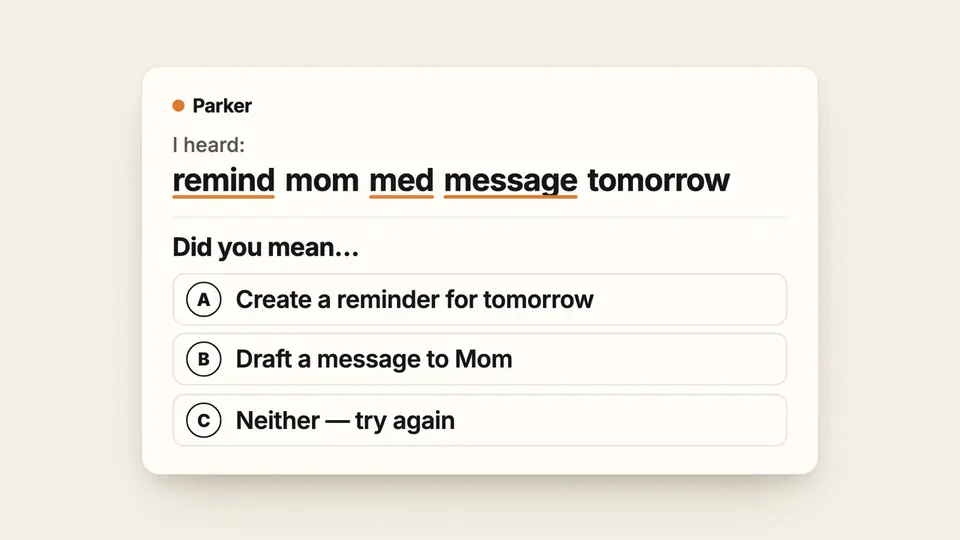
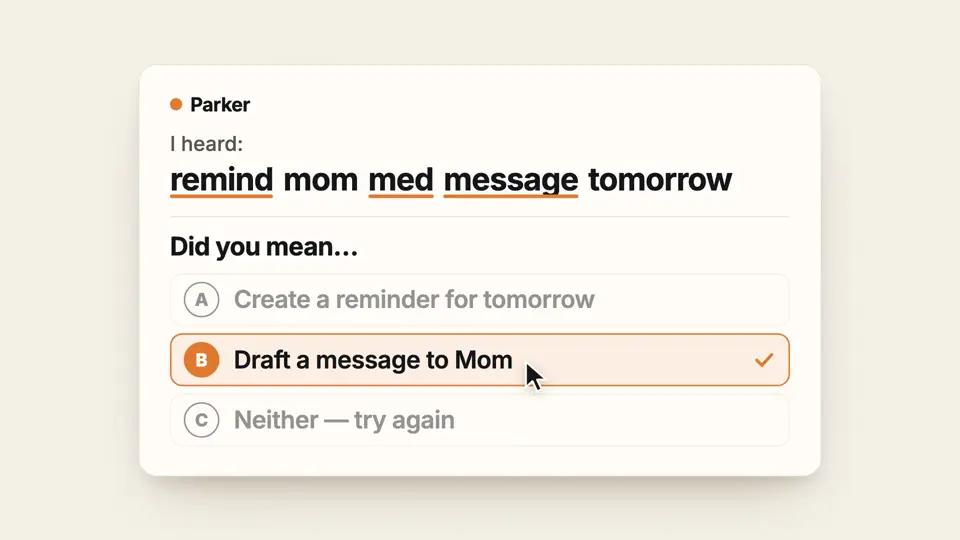
v3 gauntlet pass 1: teaser collapsed behind a disclosure, mobile notes grid fix, pinned receipts, attributed quote

diff --git a/index.html b/index.html
@@ -240,8 +240,15 @@
   .p-desc { margin-top: 0.7rem; color: var(--muted); max-width: var(--measure); text-wrap: pretty; }
   .p-desc .num { color: var(--fg); font-family: var(--mono); font-size: 0.94em; font-feature-settings: "tnum" 1; }
 
-  /* ---- parker teaser ---- */
-  .p-media { margin-top: 1.1rem; max-width: var(--measure); }
+  /* ---- parker teaser (collapsed by default: the card stays a spec, the video is opt-in) ---- */
+  .p-teaser { margin-top: 0.9rem; max-width: var(--measure); }
+  .p-teaser > summary { display: inline-flex; align-items: baseline; gap: 0.45rem; cursor: pointer; color: var(--muted); list-style: none; }
+  .p-teaser > summary::-webkit-details-marker { display: none; }
+  .p-teaser > summary::before { content: "\25B8"; font-size: 0.8em; transition: transform .18s; }
+  .p-teaser[open] > summary::before { transform: rotate(90deg); }
+  .p-teaser > summary:hover { color: var(--fg); }
+  .p-teaser > summary:focus-visible { outline: 2px solid var(--focus); outline-offset: 3px; border-radius: 2px; }
+  .p-media { margin-top: 0.9rem; max-width: var(--measure); }
   .p-media .frame { display: block; border: 1px solid var(--line-2); background: var(--surface); padding: 0.4rem; border-radius: 3px; }
   .p-media video { width: 100%; height: auto; aspect-ratio: 16 / 9; border-radius: 2px; background: #F6F1E8; }
   .p-media figcaption { margin-top: 0.65rem; color: var(--muted); display: flex; flex-wrap: wrap; gap: 0.3rem 1rem; align-items: baseline; justify-content: space-between; }
@@ -319,6 +326,7 @@
     .mechanics li { grid-template-columns: 1fr; gap: 0.2rem; }
     .mechanics .key { padding-top: 0; }
     .notes a { grid-template-columns: 1fr; gap: 0.12rem; }
+    .notes .n-sum { grid-column: 1; }
     .notes .arw { display: none; }
   }
 
@@ -397,24 +405,27 @@
               <a class="p-link mono" href="https://github.com/prasithg/parker" rel="noopener" target="_blank">github.com/prasithg/parker<span class="arw" aria-hidden="true">↗</span></a>
             </div>
             <p class="p-desc">A voice-first assistant for people with effortful speech, built for my dad, who has Parkinson's. Real-audio evals improved comprehension from <span class="num">58%</span> to <span class="num">82%</span> with repair. Live sessions now leave a local review timeline. <span class="num">1,124</span> tests.</p>
-            <figure class="p-media" data-review="pending">
-              <span class="frame"><video controls preload="none" playsinline width="1280" height="720" poster="assets/video/parker-teaser-poster.webp" aria-label="Parker teaser, 30 seconds, music only"><source src="assets/video/parker-teaser.mp4" type="video/mp4"><a href="assets/video/parker-teaser.mp4">Download the Parker teaser (MP4, 1.8 MB)</a></video></span>
-              <figcaption class="mono"><span>Teaser, 0:30. Research prototype, synthetic demo.<span class="flag">review</span></span>
-                <details><summary>On-screen text</summary>
-                  <ol>
-                    <li>Live caption: remind&hellip; mom&hellip; med&hellip; no, message&hellip; tomorrow</li>
-                    <li>Most assistants guess.</li>
-                    <li>A generic assistant card, "Sending medication message to Mom now.", struck through.</li>
-                    <li>Parker asks.</li>
-                    <li>Parker card. I heard: remind mom med message tomorrow. Did you mean: A, create a reminder for tomorrow. B, draft a message to Mom. C, neither, try again. B is picked.</li>
-                    <li>Draft only. Nothing sent. Stays on the machine until a human reviews it.</li>
-                    <li>You stay in control, next to the real caregiver review screen.</li>
-                    <li>Built for effortful speech. Repair, confirm, stage, review.</li>
-                    <li>Parker. Research prototype. Synthetic demo. Not medical advice.</li>
-                  </ol>
-                </details>
-              </figcaption>
-            </figure>
+            <details class="p-teaser" data-review="pending">
+              <summary class="mono">Watch the 30-second teaser<span class="flag">review</span></summary>
+              <figure class="p-media">
+                <span class="frame"><video controls preload="none" playsinline width="1280" height="720" poster="assets/video/parker-teaser-poster.webp" aria-label="Parker teaser, 30 seconds, music only"><source src="assets/video/parker-teaser.mp4" type="video/mp4"><a href="assets/video/parker-teaser.mp4">Download the Parker teaser (MP4, 1.8 MB)</a></video></span>
+                <figcaption class="mono"><span>Research prototype. Synthetic demo. Not medical advice.</span>
+                  <details><summary>On-screen text</summary>
+                    <ol>
+                      <li>Live caption: remind&hellip; mom&hellip; med&hellip; no, message&hellip; tomorrow</li>
+                      <li>Most assistants guess.</li>
+                      <li>A generic assistant card, "Sending medication message to Mom now.", struck through.</li>
+                      <li>Parker asks.</li>
+                      <li>Parker card. I heard: remind mom med message tomorrow. Did you mean: A, create a reminder for tomorrow. B, draft a message to Mom. C, neither, try again. B is picked.</li>
+                      <li>Draft only. Nothing sent. Stays on the machine until a human reviews it.</li>
+                      <li>You stay in control, next to the real caregiver review screen.</li>
+                      <li>Built for effortful speech. Repair, confirm, stage, review.</li>
+                      <li>Parker. Research prototype. Synthetic demo. Not medical advice.</li>
+                    </ol>
+                  </details>
+                </figcaption>
+              </figure>
+            </details>
           </li>
           <li class="project">
             <div class="p-head">
@@ -472,9 +483,9 @@
           <li data-review="pending"><a href="notes/a-check-that-could-not-run-said-red.html"><span class="when mono">Sep 2026</span><span class="what">Memory health check now exits 3 when it can&rsquo;t run, instead of freezing a healthy system with a false RED<span class="flag mono">review</span></span><span class="dest mono">note&thinsp;&rarr;</span></a></li>
           <li><a href="https://github.com/prasithg/prasithg.github.io/pull/3" target="_blank" rel="noopener"><span class="when mono">Sep 2026</span><span class="what">This site got a shell contract: CI fails if the hero, portrait, nav, or CSS change outside an explicit redesign</span><span class="dest mono">github&thinsp;&#8599;</span></a></li>
           <li><a href="https://github.com/prasithg/parker/pull/36" target="_blank" rel="noopener"><span class="when mono">Sep 2026</span><span class="what">Parker: &ldquo;yes one&rdquo; now selects choice one, a fix from the first human-tester session</span><span class="dest mono">github&thinsp;&#8599;</span></a></li>
-          <li><a href="https://github.com/prasithg/clawrari/commits/main/" target="_blank" rel="noopener"><span class="when mono">Sep 2026</span><span class="what">Clawrari: 26 distilled playbooks published since mid-August, from eval evidence to retry boundaries</span><span class="dest mono">github&thinsp;&#8599;</span></a></li>
+          <li><a href="https://github.com/prasithg/clawrari/compare/f1b0dc7...36aa09e" target="_blank" rel="noopener"><span class="when mono">Sep 2026</span><span class="what">Clawrari: 26 distilled playbooks in 29 commits since mid-August, from eval evidence to retry boundaries</span><span class="dest mono">github&thinsp;&#8599;</span></a></li>
           <li><a href="https://github.com/prasithg/parker/commit/3ab27d6" target="_blank" rel="noopener"><span class="when mono">Aug 2026</span><span class="what">Parker scenario gauntlet: 73 new scenarios over three rounds, 13 fixes, live-verified</span><span class="dest mono">github&thinsp;&#8599;</span></a></li>
-          <li><a href="https://github.com/prasithg/parker/commit/66d92fb" target="_blank" rel="noopener"><span class="when mono">Aug 2026</span><span class="what">Parker fast-voice orchestrator: the conversation never waits on background work</span><span class="dest mono">github&thinsp;&#8599;</span></a></li>
+          <li><a href="https://github.com/prasithg/parker/commit/66d92fb" target="_blank" rel="noopener"><span class="when mono">Aug 2026</span><span class="what">Parker fast-voice orchestrator: lookups and actions run in the background while the conversation keeps going</span><span class="dest mono">github&thinsp;&#8599;</span></a></li>
           <li><a href="https://github.com/prasithg/parker/pull/33" target="_blank" rel="noopener"><span class="when mono">Aug 2026</span><span class="what">Added Parker's local session-review timeline: turns, guard trips, lookup latency, staged actions, and one-tap feedback tied to the exact event</span><span class="dest mono">github&thinsp;&#8599;</span></a></li>
           <li><a href="https://www.clawrari.com" target="_blank" rel="noopener"><span class="when mono">Jul 2026</span><span class="what">Shipped clawrari.com: brand, landing, and story pages, three review passes across two model families</span><span class="dest mono">clawrari.com&thinsp;&#8599;</span></a></li>
           <li><a href="notes/my-own-repo-disproved-my-readme.html"><span class="when mono">Jul 2026</span><span class="what">Parker real-audio eval on dysarthria corpora: 58% &rarr; 82% comprehension with repair loop</span><span class="dest mono">note&thinsp;&rarr;</span></a></li>

diff --git a/notes/picking-the-colors-before-the-model-does.html b/notes/picking-the-colors-before-the-model-does.html
@@ -162,7 +162,7 @@ body {
   <p class="n-meta mono"><time datetime="2026-09-27">Sep 2026</time><span aria-hidden="true"> / </span>2 min read</p>
   <article class="prose">
 <aside class="review-flag mono" data-review="pending">Draft for Prasith's review. Not published until this banner is removed.</aside>
-<p>Nearly every Claude Opus 5.5 product video I saw in September had the same look. Purple glow on near-black. Tiny uppercase labels in the corners. "01 / 03" step counters, fake timestamps, scanlines, a particle globe, words flashing in one at a time.</p><p>That look is what you get when the model picks the colors and the words. One commenter predicted it "will become the new newspaper beige with serif header font."</p><p>For the Parker teaser I wrote the brief before any code existed and split the job in two. I owned the words and the look. Opus owned the motion.</p><p>The brief was specific enough to check against the render:</p><ul><li>Three colors: paper F6F1E8, ink 14161A, one amber accent E07A2F. One soft red, used once, for a strike-through.</li><li>Inter for everything. Headlines 120 to 180 pixels tall on a 1080p frame.</li><li>Every scene holds at least 2.4 seconds and changes on the music's downbeat. Nothing changes faster than twice a second. One camera move per scene, at most.</li><li>A banned list: small-caps corner labels, step counters, fake coordinates and timestamps, scanlines, particles, neon, dark mode.</li><li>Every on-screen phrase written by me, and a last frame that has to say "Research prototype. Synthetic demo. Not medical advice."</li></ul><p>Opus built it in Remotion, rendered a 16:9 and a 9:16 cut at 60 frames per second, and checked its own contact sheet against the brief before handing it over.</p><p>The light theme started as a way to look different from the wave. It held up for a better reason. Parker is built for people with effortful speech, starting with my dad, and the viewer I care about can't read tiny gray UI on black. Big dark type on warm paper is legible. The trend look would have been wrong for the audience before it was wrong for the brand.</p><p>What I'm keeping: when a model has a strong default, the brief has to name the default and ban it. "Clean and modern" gets you the purple video. A hex list, a timing rule, and a banned list got me something I could check line by line.</p><p>The teaser is 30 seconds and sits under Parker on the front page.</p>
+<p>Nearly every Claude Opus 5.5 product video I saw in September had the same look. Purple glow on near-black. Tiny uppercase labels in the corners. "01 / 03" step counters, fake timestamps, scanlines, a particle globe, words flashing in one at a time.</p><p>That look is what you get when the model picks the colors and the words. One reply under a popular example asked the author to <a href="https://x.com/ggsimm/status/2103495318117708218" target="_blank" rel="noopener">get rid of the "small caps and 01/03 everywhere."</a></p><p>For the Parker teaser I wrote the brief before any code existed and split the job in two. I owned the words and the look. Opus owned the motion.</p><p>The brief was specific enough to check against the render:</p><ul><li>Three colors: paper F6F1E8, ink 14161A, one amber accent E07A2F. One soft red, used once, for a strike-through.</li><li>Inter for everything. Headlines 120 to 180 pixels tall on a 1080p frame.</li><li>Every scene holds at least 2.4 seconds and changes on the music's downbeat. Nothing changes faster than twice a second. One camera move per scene, at most.</li><li>A banned list: small-caps corner labels, step counters, fake coordinates and timestamps, scanlines, particles, neon, dark mode.</li><li>Every on-screen phrase written by me, and a last frame that has to say "Research prototype. Synthetic demo. Not medical advice."</li></ul><p>Opus built it in Remotion, rendered a 16:9 and a 9:16 cut at 60 frames per second, and checked its own contact sheet against the brief before handing it over.</p><p>The light theme started as a way to look different from the wave. It held up for a better reason. Parker is built for people with effortful speech, starting with my dad, and the viewer I care about can't read tiny gray UI on black. Big dark type on warm paper is legible. The trend look would have been wrong for the audience before it was wrong for the brand.</p><p>What I'm keeping: when a model has a strong default, the brief has to name the default and ban it. "Clean and modern" gets you the purple video. A hex list, a timing rule, and a banned list got me something I could check line by line.</p><p>The teaser is 30 seconds and sits under Parker on the front page.</p>
   </article>
   <nav class="pn mono" aria-label="More notes"><a class="pn-prev" href="a-check-that-could-not-run-said-red.html">&larr; a check that couldn&#x27;t run said red</a><a class="pn-next" href="the-visual-test-passed-and-the-page-still-looked-wrong.html">the visual test passed and the page still looked wrong &rarr;</a></nav>
 </main>

diff --git a/scripts/check_site_contract.py b/scripts/check_site_contract.py
@@ -13,7 +13,7 @@ from pathlib import Path
 # v3 candidate (claw/v3-candidate, 2026-09-27): CSS re-approved only if Prasith merges this PR.
 # Hero text, navigation, and portrait are unchanged; hero geometry verified pixel-identical to v2.
 # v2 approved hash was d3f855b437cda9549f6a203a76fb22498b4ae0b2db8741412b07fd002a84d276.
[2 lines of base64/hex data omitted]
 APPROVED_TEXT = {
     "kicker": "Founder, CTO, agent builder",
     "thesis": "I build small teams of AI agents that ship real software.",
